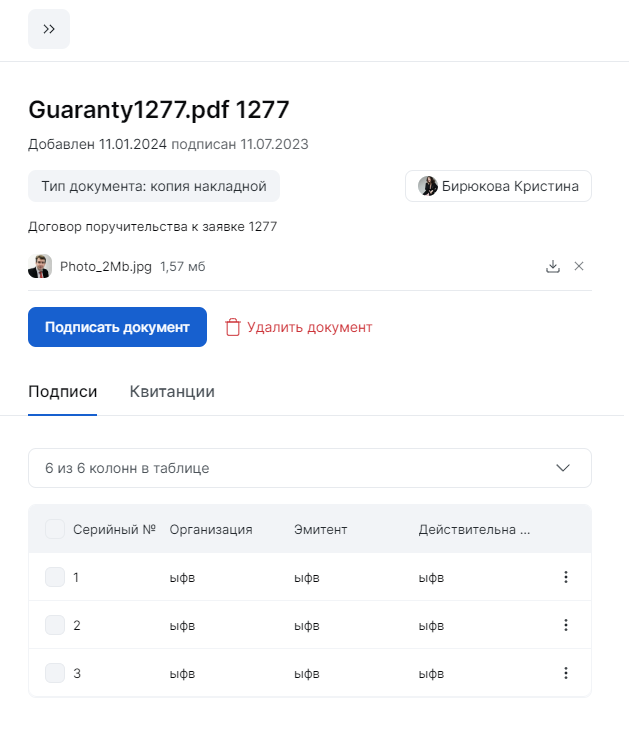
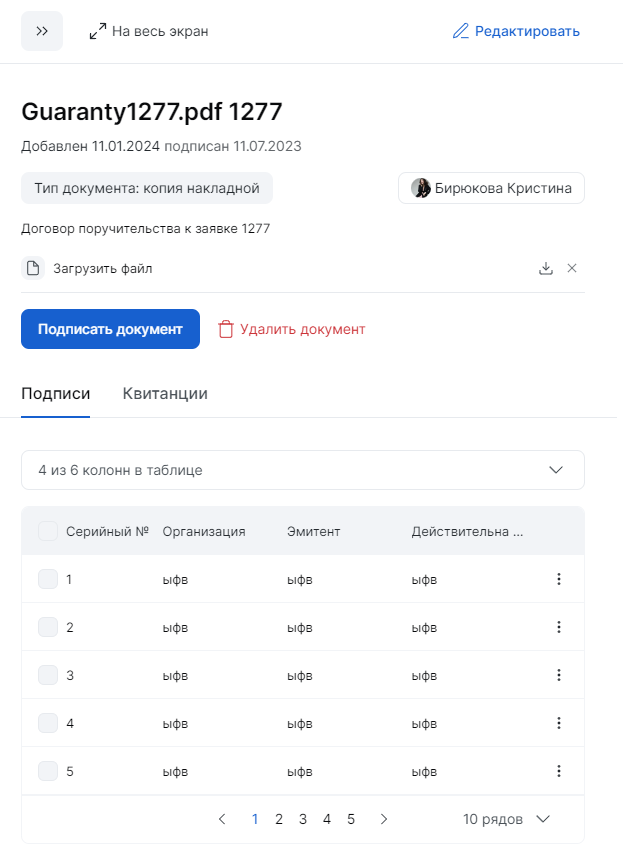
add: new-doc-views-drawer.comp new elems

diff --git a/src/app/client/modules/documents/modules/new-documents-views-drawer/new-documents-views-drawer.component.html b/src/app/client/modules/documents/modules/new-documents-views-drawer/new-documents-views-drawer.component.html
@@ -1,6 +1,8 @@
 <mib-drawer>
 	<mib-drawer-header
 		(onClose)="dialogRef.close()"
+		[showMaximize]="true"
+		[showEdits]="true"
 		drawer-header
 	></mib-drawer-header>
 	<mib-drawer-container>
@@ -103,7 +105,7 @@
 								<mib-table-head-cell>Действительна до</mib-table-head-cell>
 							</mib-table-head>
 							<mib-table-row
-								*ngFor="let doc of [1, 2, 3]; let idx = index"
+								*ngFor="let doc of [1, 2, 3, 4, 5]; let idx = index"
 								[underlined]="true"
 							>
 								<mib-table-cell type="main">
@@ -128,6 +130,26 @@
 									></mib-icon>
 								</mib-button>
 							</mib-table-row>
+							<mib-table-footer [lined]="!(loading$ | async)">
+								<div class="flex flex_align-center flex_grow"></div>
+								<mib-paginator
+									[totalCount]="123"
+									[pagesToShow]="PAGINATOR_PAGE_TO_SHOW"
+									[itemsPerPage]="PAGINATOR_ITEMS_PER_PAGE"
+								></mib-paginator>
+								<div class="flex flex_align-center flex_grow flex_justify-end">
+									<mib-select type="floating" placeholder="5 рядов">
+										<mib-dropdown-point
+											[value]="5"
+											text="5 рядов"
+										></mib-dropdown-point>
+										<mib-dropdown-point
+											[value]="10"
+											text="10 рядов"
+										></mib-dropdown-point>
+									</mib-select>
+								</div>
+							</mib-table-footer>
 						</mib-table>
 					</mib-tab-item>
 				</mib-drawer-container>
